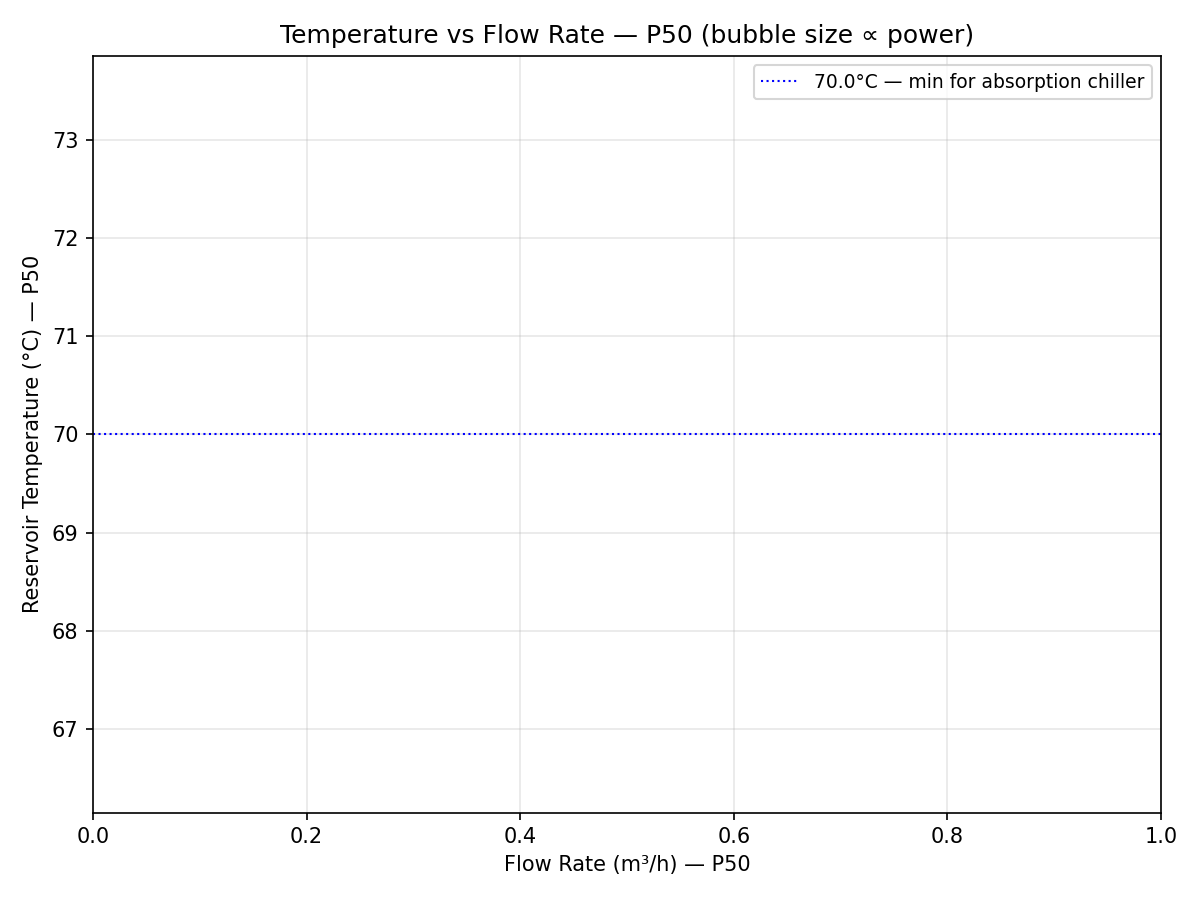
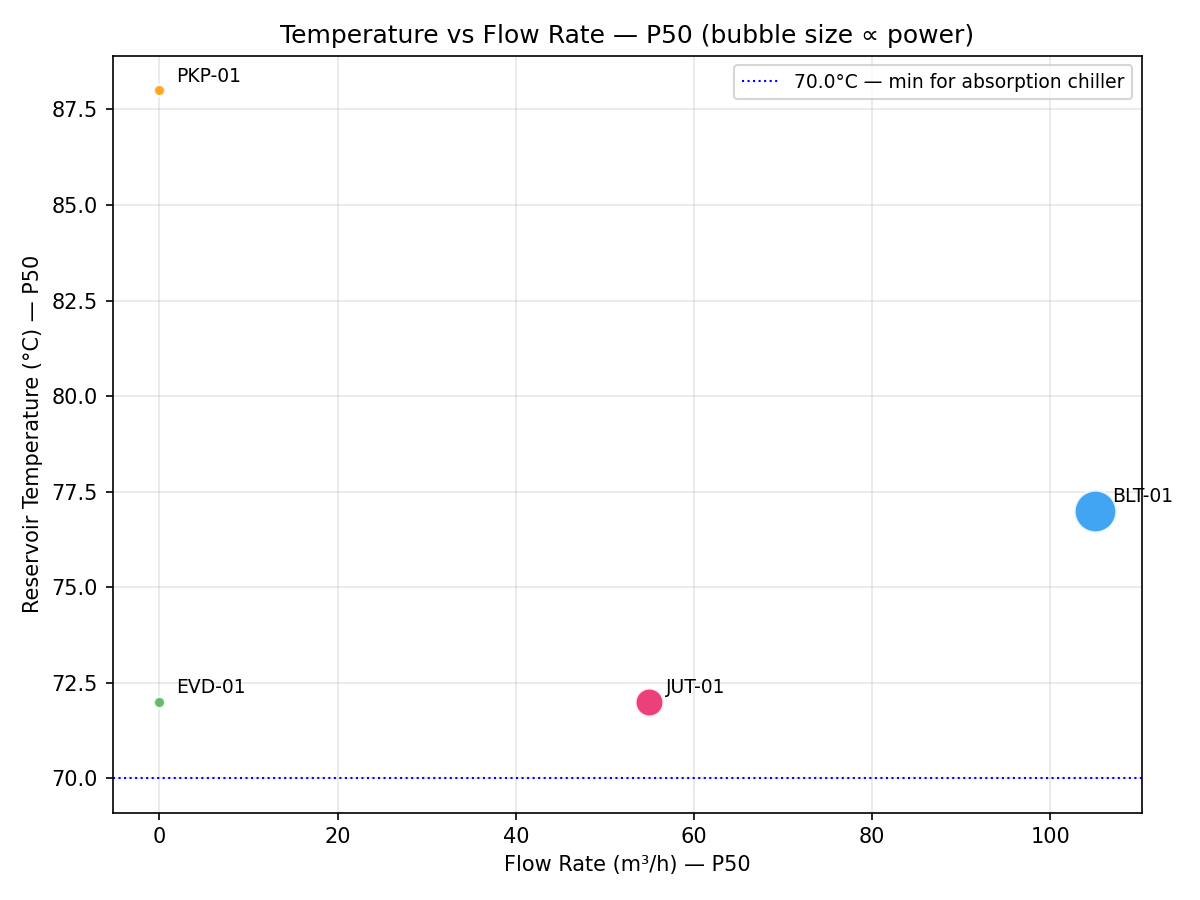
edited notebook 5 for errors and updated methodology.md

diff --git a/docs/methodology.md b/docs/methodology.md
@@ -1,0 +1,218 @@
+# SPE Africa Geothermal Datathon 2026 — Methodology & Progress Log
+
+**Team Repo:** geothermal-datathon  
+**Language:** Python  
+**Deadline:** 4 June 2026, 23:59 EAT  
+**Submission portal:** https://forms.gle/trogXPPhgyvjSzGE7
+
+---
+
+## 1. Project Overview
+
+The challenge requires assessing whether a geothermal resource from four wells in the
+Netherlands (Utrecht region) can supply a mixed urban district with:
+- At least **10 MWth heating demand**
+- At least **5 MWth cooling demand**
+
+Target geological formation: **Rotliegend sandstone**
+
+Grading split:
+- Challenge 1 — Geothermal Assessment: **60%**
+- Challenge 2 — System Design: **40%**
+- Bonus — AI-assisted workflow: extra marks
+
+---
+
+## 2. Data Inventory & Known Issues
+
+### 2a. LAS Files (4 wells)
+| Well | Depth Range | Unit | Notes |
+|------|-------------|------|-------|
+| BLT-01 | 0–2124 m | meters | Most data-rich; 20 curves; no missing data |
+| EVD-01 | 0–2197 m | meters | Minimal curves: GR, DT, RHOB, DRHO |
+| PKP-01 | 0–2751 m | meters | Deepest well |
+| JUT-01 | 0–11220 ft | **FEET** | Deviated well — requires unit + TVD conversion |
+
+### 2b. target_lithologies.csv
+- 3,455 rows × 13 columns
+- `depth_tvd_m`: **100% missing** — caused by JUT-01 deviated well (measured depth ≠ TVD)
+- `porosity_pct`: **30% missing** (1,036 rows)
+- `bulk_density_gcc`: **7.4% missing** (256 rows)
+- `flag_reason`: mostly "AH depth — deviated well needs TVD conversion"
+
+### 2c. Lithostratigraphic_Data.xlsx
+- 4 sheets (one per well)
+- Contains formation tops and bases
+- Primary target: **Slochteren Formation** (Rotliegend) at BLT-01 (~1924–2053 m)
+- Zechstein evaporites act as seal above Rotliegend in some wells
+
+### 2d. ThermoGIS_Data.xlsx
+- 4 sheets (one per well)
+- Probabilistic reservoir properties at P90 / P50 / P10
+- Most important dataset for Challenge 1
+
+| Well | Perm P50 (mD) | Thickness P50 (m) | Porosity (%) | Temp (°C) | Flow P50 (m³/h) | Power P50 (MW) | Verdict |
+|------|--------------|-------------------|--------------|-----------|-----------------|----------------|---------|
+| BLT-01 | 82 | 130 | 17 | 77 | 105 | 5.1 | **Best candidate** |
+| JUT-01 | 40 | 125 | 11 | 72 | 55 | 2.3 | Good secondary |
+| EVD-01 | 6 | 76 | 9 | 72 | 0 | 0.0 | Poor |
+| PKP-01 | 1 | 60 | 9 | 88 | 0 | 0.0 | High temp, near-zero flow |
+
+### 2e. Well_Path_Data.xlsx
+- Directional survey for each well: MD, Inclination, Azimuth, TVD, X-offset, Y-offset
+- Used to convert JUT-01 measured depths to TVD
+
+### 2f. LCOE.xlsx
+- Excel model for Levelized Cost of Energy
+- To be adapted in Notebook 07
+
+---
+
+## 3. Physical Constants & Assumptions Locked In
+
+| Parameter | Value | Justification |
+|-----------|-------|---------------|
+| `RHO_W` | 1000.0 kg/m³ | Water density |
+| `C_W` | 4182.0 J/kg·K | Specific heat of water |
+| `MU_W` | 3×10⁻⁴ Pa·s | Viscosity of water at ~75°C |
+| `T_REJ` | 30°C | Rejection / reinjection temperature |
+| `T_SURF` | 10°C | Mean surface temperature, Netherlands |
+| `COP_HP` | 4.0 | Heat pump coefficient of performance |
+| `T_MIN_ABS` | 70°C | Minimum brine temp for absorption chiller |
+| `COP_CHILLER` | 0.7 | Absorption chiller thermal COP |
+| `RECOVERY_FACTOR` | 0.25 | Volumetric heat recovery factor (25%) |
+| `PROJECT_LIFE_YR` | 30 | Project lifetime in years |
+| `WELL_AREA_M2` | 5×10⁶ m² | Drained area per doublet (5 km²) |
+| `UPLIFT_FACTOR` | COP/(COP-1) = 1.333 | Heat pump thermal uplift at COP 4 |
+
+---
+
+## 4. Notebook Progress Log
+
+### Notebook 01 — Data Loading and QC ✅
+- Loaded all 4 LAS files using `lasio`
+- Loaded all xlsx files using `pandas` / `openpyxl`
+- Loaded `target_lithologies.csv`
+- Documented all data quality issues:
+  - JUT-01 depths in feet → must multiply by 0.3048
+  - JUT-01 is deviated → measured depth ≠ TVD
+  - `depth_tvd_m` 100% missing in target_lithologies
+  - 30% porosity missing, 7.4% bulk density missing
+
+---
+
+### Notebook 02 — Well Log Analysis ✅
+- Multi-track log displays plotted for all 4 wells (GR, RHOB, DT, NPHI where available)
+- Rotliegend formation intervals shaded using Lithostratigraphic data
+- Lateral variability between wells identified
+- Rotliegend sandstone identified by: low GR, low density, elevated porosity
+
+---
+
+### Notebook 03 — Missing Data and TVD Conversion ✅
+- **TVD conversion:** Used Well Path Data directional survey to interpolate TVD for JUT-01
+- **Unit conversion:** JUT-01 depths multiplied by 0.3048 (feet → meters)
+- **Porosity imputation:** Missing values filled using GR and RHOB via regression
+  (density-porosity equation: φ = (ρma - ρb) / (ρma - ρfl), ρma = 2.65 g/cc for sandstone)
+- **Density imputation:** Missing bulk_density_gcc filled using sonic-density relationship or KNN
+- Cleaned dataset saved to `outputs/processed_data/`
+
+---
+
+### Notebook 04 — Reservoir Characterization ✅
+- Log-derived porosity computed from density logs
+- Log-derived values compared to ThermoGIS — differences reconciled
+- Permeability estimated using porosity-permeability transforms (Kozeny-Carman / empirical)
+- Net pay thickness computed using GR cutoff to separate clean sand from shale
+- Reservoir properties mapped spatially using easting/northing coordinates
+- Output saved to `outputs/processed_data/reservoir_properties.csv`
+
+**Reservoir properties summary (from log analysis):**
+| Well | Net Pay (m) | Log Porosity (%) | Log Perm (mD) | Temp P50 (°C) | Power P50 (MW) |
+|------|------------|-----------------|---------------|---------------|----------------|
+| BLT-01 | 138.2 | 14.0 | 40.4 | 77 | 5.1 |
+| EVD-01 | 130.5 | 10.6 | 12.3 | 72 | 0.0 |
+| PKP-01 | 70.1 | 5.6 | 2.3 | 88 | 0.0 |
+| JUT-01 | 840.8 | 4.6 | 0.0 | 72 | 2.3 |
+
+---
+
+### Notebook 05 — Geothermal Potential Assessment (Challenge 1) ✅
+
+#### Bug Found and Fixed
+- **Issue:** `get_thermo()` function used exact string match `'Flow rate'` (lowercase r)
+  but ThermoGIS data contains `'Flow Rate'` (uppercase R)
+- **Effect:** Flow rates returned NaN for all wells → cooling calculation silently returned 0.0 MW
+- **Fix:** Made string comparison case-insensitive using `.str.lower()` on both sides of mask
+
+```python
+# FIXED version of get_thermo()
+mask = (df_thermo['Well'] == well) & \
+       (df_thermo['Property'].str.strip().str.lower() == property_name.lower())
+```
+
+#### Scenario Analysis Results
+
+**Heating (target: 10 MWth)**
+| Configuration | P90 (MW) | P50 (MW) | P10 (MW) | Meets target at P50? |
+|---------------|----------|----------|----------|----------------------|
+| BLT-01 only | 0.60 | 5.10 | 23.70 | NO |
+| BLT-01 + JUT-01 | 1.60 | 7.40 | 28.50 | NO |
+| All four wells | 1.60 | 7.40 | 28.50 | NO |
+
+**With heat pump uplift (COP=4, uplift factor=1.333):**
+| Configuration | Geo P50 (MW) | Boosted P50 (MW) | Elec needed (MW) | Meets target? |
+|---------------|-------------|-----------------|-----------------|---------------|
+| BLT-01 only | 5.10 | 6.80 | 1.70 | NO |
+| BLT-01 + JUT-01 | 7.40 | 9.87 | 2.47 | NO (MARGINAL) |
+
+**Final heating result: 9.9 MWth at P50 — MARGINAL**
+
+**Cooling (target: 5 MWth)**
+- Absorption chiller from BLT-01 at P50: **4.0 MW**
+- Gap: **1.0 MW** to be covered by compression chiller in Notebook 06
+
+#### Volumetric Heat in Place
+| Well | HIIP (PJ) | Recoverable (PJ) | Avg Power (MW) |
+|------|-----------|-----------------|----------------|
+| BLT-01 | 27.11 | 6.78 | 7.16 |
+| EVD-01 | 17.93 | 4.48 | 4.74 |
+| PKP-01 | 6.40 | 1.60 | 1.69 |
+| JUT-01 | 50.14 | 12.54 | 13.24 |
+
+#### Challenge 1 Conclusion
+1. Develop BLT-01 as primary production well (doublet configuration)
+2. Develop JUT-01 as secondary well — adds meaningful flow at P50
+3. Install heat pump with COP ≥ 4 to bridge gap to 10 MWth at P50
+4. At P10 (optimistic), BLT-01 alone exceeds the heating target
+5. EVD-01 and PKP-01 are not viable production wells at P50
+6. PKP-01 (88°C) serves as temperature calibration reference only
+
+---
+
+## 5. Remaining Notebooks — To Do
+
+| Notebook | Topic | Status | Priority |
+|----------|-------|--------|----------|
+| 06 | System Design (doublet, heat pump, chiller, storage) | ⏳ Next | HIGH — 40% of grade |
+| 07 | LCOE Analysis | ⏳ Pending | HIGH |
+| 08 | Bonus AI Workflow | ⏳ Pending | Medium |
+
+### Key inputs going into Notebook 06
+- Heating gap: **0.1 MW** — heat pump needs small safety margin above 9.9 MW
+- Cooling gap: **1.0 MW** — compression chiller to top up absorption chiller output
+- Production wells: **BLT-01** (primary) + **JUT-01** (secondary)
+- Doublet config: one production well + one injection well per location
+- Heat pump target supply temperature: **~70°C** for district heating
+
+---
+
+## 6. Figures Generated
+
+| File | Notebook | Description |
+|------|----------|-------------|
+| `05_power_by_well_scenarios.png` | 05 | Thermal power by well — P90/P50/P10 with target lines |
+
+---
+
+*Last updated: Notebook 05 complete. Next: Notebook 06 — System Design.*